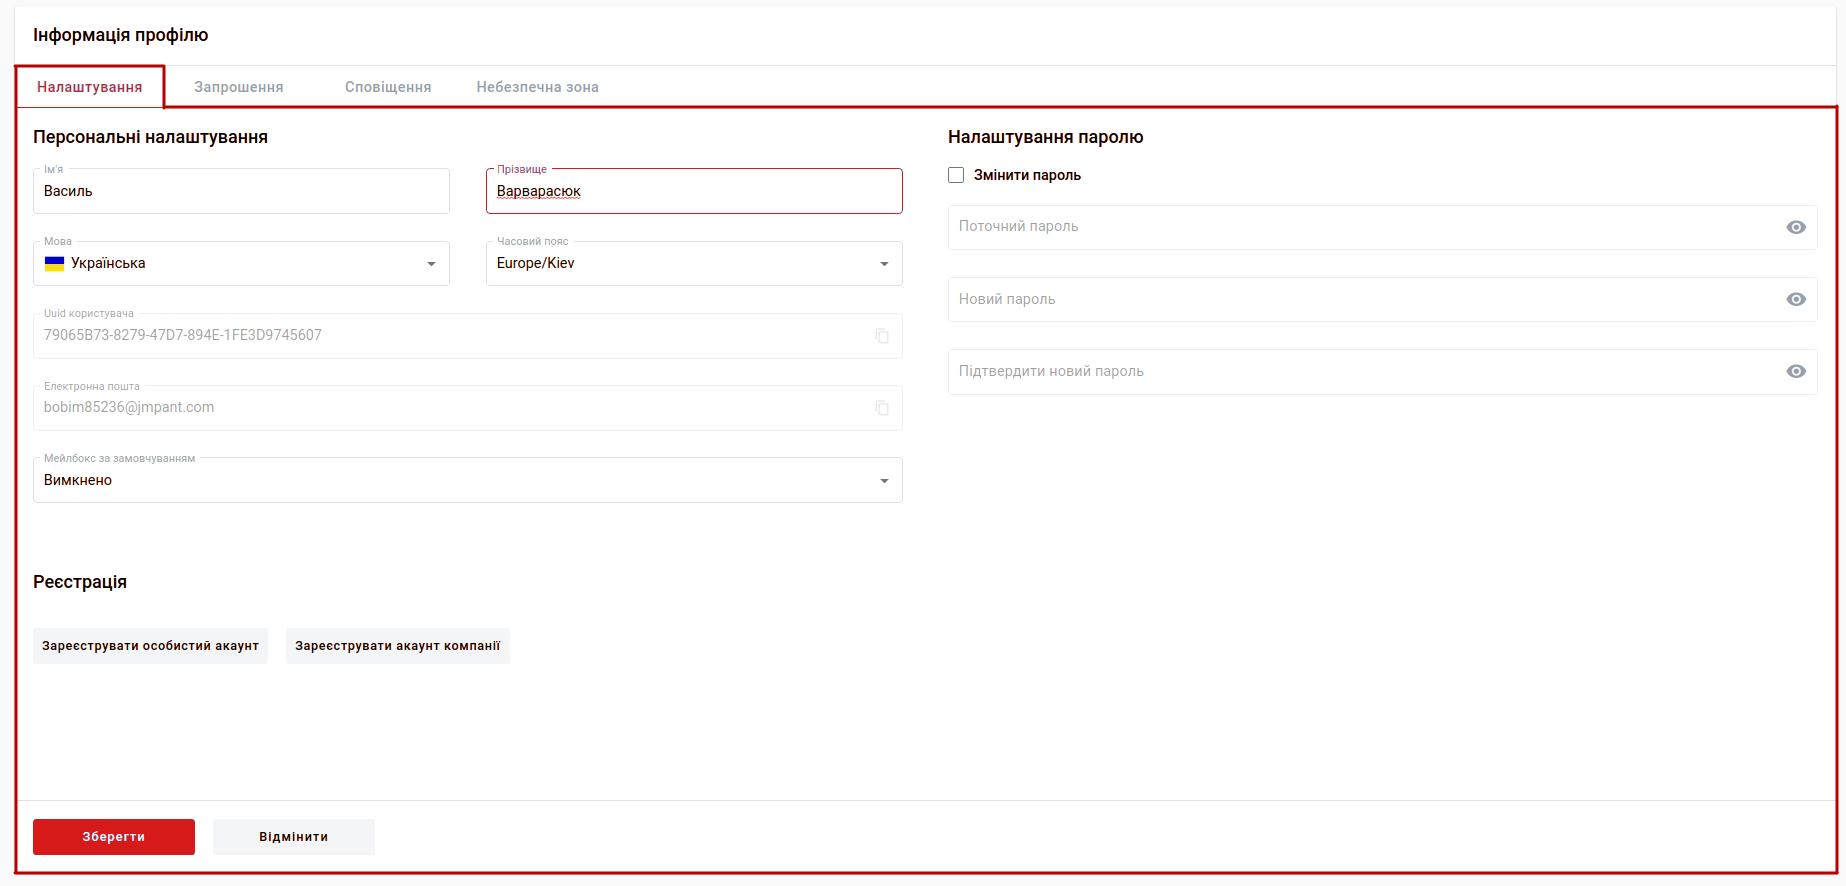
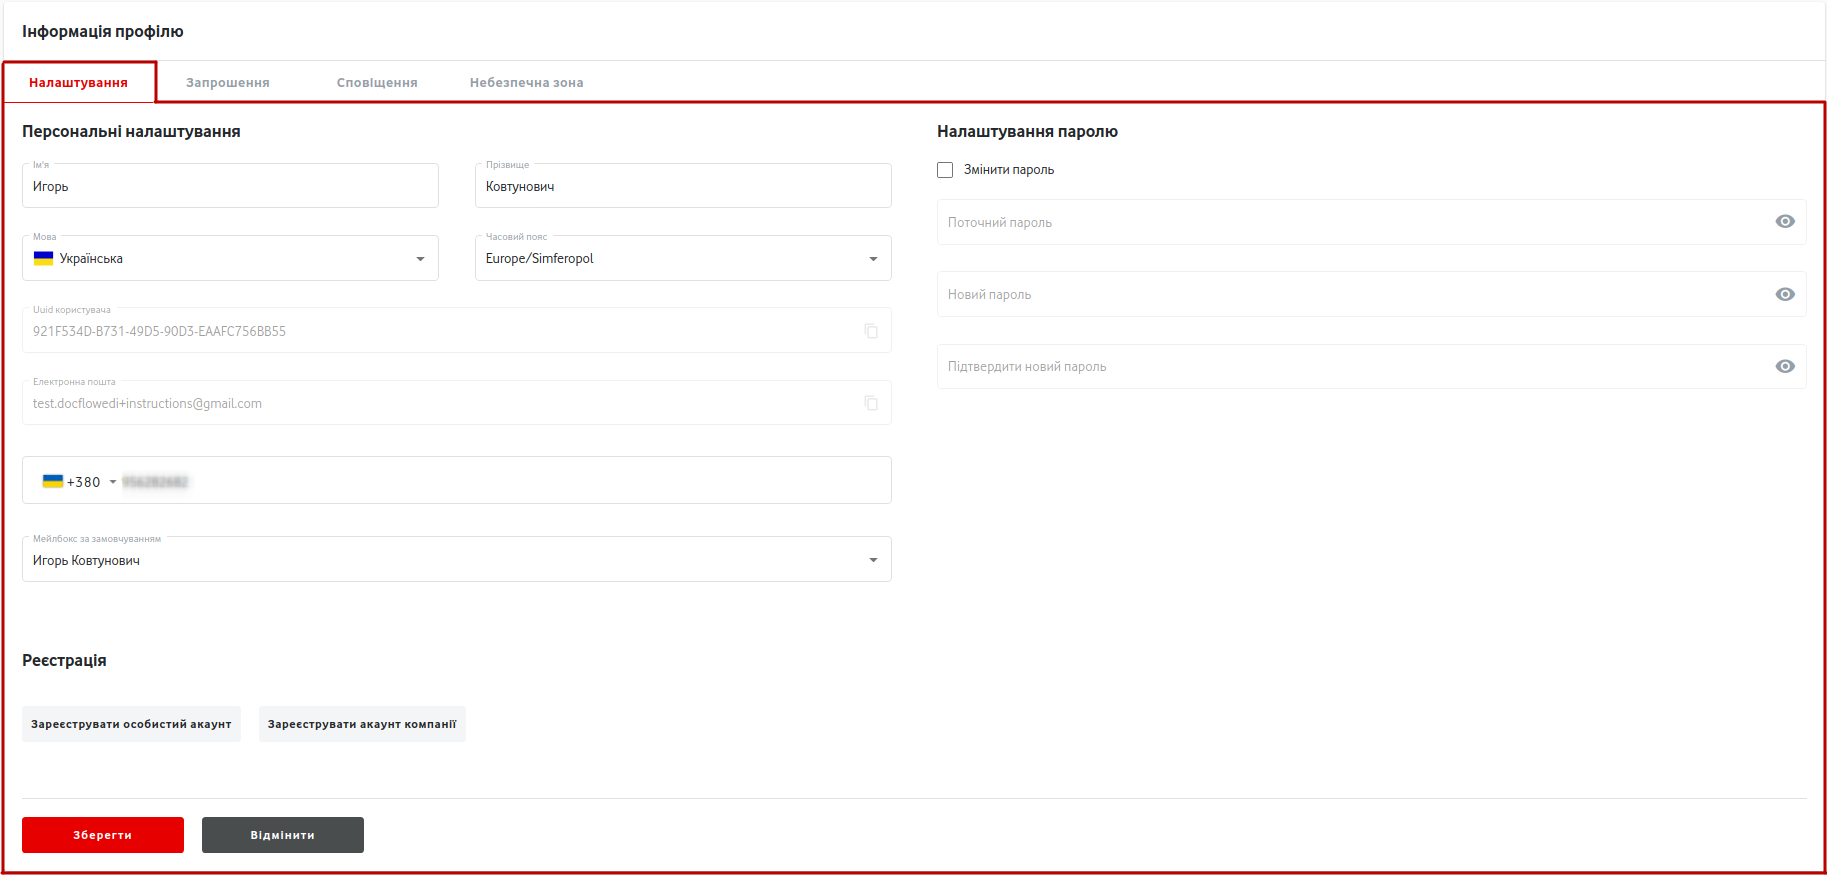
profile

diff --git a/docs/VodafoneDoc/VD_Instructions/VD_user_profile.rst b/docs/VodafoneDoc/VD_Instructions/VD_user_profile.rst
@@ -54,7 +54,7 @@ WEB сервісом підтримуються **Google Chrome** та **Safari*
 
 В **"Налаштуваннях"** відображаються:
 
-* **Персональні налаштування** - блок, що містить персональні дані користувача (ім'я, прізвище), налаштування мови інтерфейсу сервісу VodafoneDoc, часовий пояс, uuid користувача (не доступно до редагування), email користувача (не доступно до редагування) і налаштування мейлбокса, що буде відкриватись при вході в сервіс.
+* **Персональні налаштування** - блок, що містить персональні дані користувача (ім'я, прізвище), налаштування мови інтерфейсу сервісу VodafoneDoc, часовий пояс, uuid користувача (не доступно до редагування), email користувача (не доступно до редагування), номер телефону і налаштування мейлбокса, що буде відкриватись при вході в сервіс.
 * **Налаштування паролю** - блок, що дозволяє **"Змінити пароль"** даного користувача, проставивши відповідну відмітку та вказавши поточний та новий пароль (з підтвердженням).
 * **Реєстрація** - блок, що дозволяє користувачу **"Зареєструвати особистий акаунт"** чи **"Зареєструвати акаунт компанії"** (детальніше про особливості `реєстрації в сервісі Vodafone Doc <https://vodafone-wd-wiki.edin.ua/uk/latest/VodafoneDoc/WD_Instructions/VD_registration.html>`__). Натиснувши відповідні кнопки можливо зареєструвати акаунт, погодившись в pop-up вікні з правилами та умовами користування сервісом та політикою конфіденційності (для акаунта компанії потрібно додатково ввести ІПН та назву мейлбокса):
 
